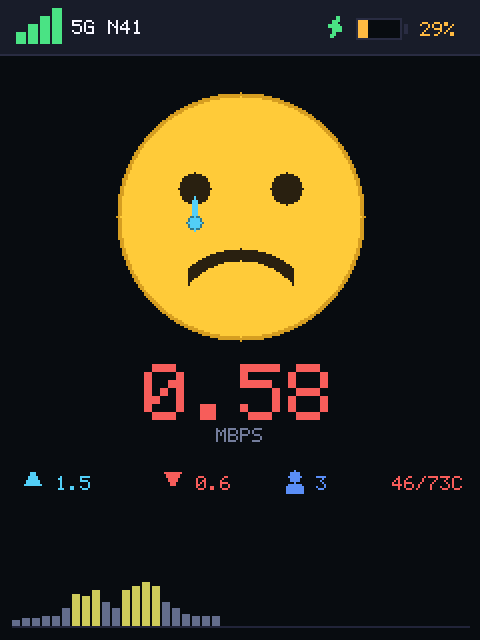
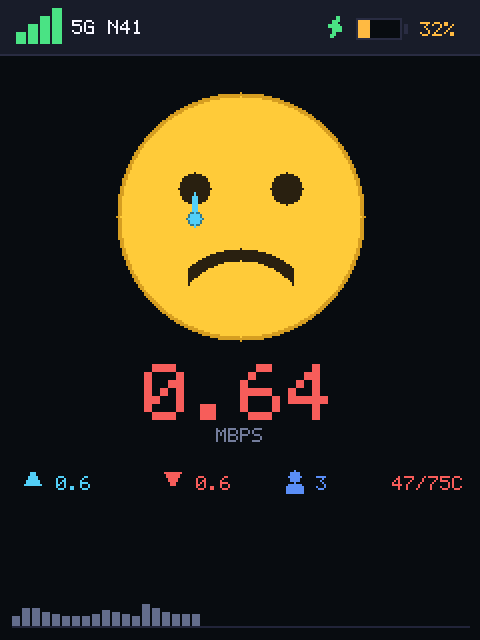
mifi-face-screen: add auto-restart keeper, fix the silently-broken emergency stop
Two tooling problems found while verifying v2:

  * screen-fix.bat (the black-screen emergency button) killed the face screen
    with the pattern [f]ace.py, which does NOT match face2.py: the '.' has to
    eat the '2', leaving nothing for the 'p'. So the button reported success
    while the process kept running. Changed to [f]ace, which matches both
    versions and still cannot match its own command line -- verified on the
    device (the shell survives and the target dies).

  * the one-shot start died with the adb session. face-keeper.bat now loops:
    connect -> push -> pkill (its own adb call, or the pattern matches the
    command line and the shell kills itself) -> run -> restart on exit. Device
    reboot or link drop both self-heal. face-control.bat option 1 launches it.

Also refreshed the live device screenshot and folded the full 9-repair
statistics into the report (8 intervals: 61/59/121/60/60/59/61/60 s, one
121s gap explained by a regular render landing on the stamp).

diff --git a/mifi-face-screen/optimization-report.html b/mifi-face-screen/optimization-report.html
@@ -167,20 +167,18 @@ v1 没有任何应对，只能等自己下一次刷新（1 秒后）才盖回去
 <tr><td>盖上 20 px 宽窄条后探测</td><td>发现覆盖（验证抽样不会漏）</td><td class="c good">True ✓</td></tr>
 <tr><td>重绘之后再探测</td><td>已修复</td><td class="c good">False ✓</td></tr>
 </table>
-<p>然后是实机长时间验证。设备上的 <code>/tmp/face_repair.log</code> 会记下每一次真实发生的覆盖与修复：</p>
+<p>然后是实机长时间验证。设备上的 <code>/tmp/face_repair.log</code> 会记下每一次真实发生的覆盖与修复。
+连续跑约 9 分钟，抓到 9 次：</p>
 <table>
-<tr><th class="c">第几次</th><th class="c">发生时刻</th><th class="c">距上次</th><th>说明</th></tr>
-<tr><td class="c mono">1</td><td class="c mono">21:33:59</td><td class="c mono">—</td><td>进程启动后第一次</td></tr>
-<tr><td class="c mono">2</td><td class="c mono">21:35:00</td><td class="c mono">61 s</td><td>原厂时钟的周期</td></tr>
-<tr><td class="c mono">3</td><td class="c mono">21:35:59</td><td class="c mono">59 s</td><td>原厂时钟的周期</td></tr>
-<tr><td class="c mono">4</td><td class="c mono">21:38:00</td><td class="c mono warn">121 s</td><td>21:37 那次被常规渲染顺手盖掉了，探测没轮上</td></tr>
-<tr><td class="c mono">5</td><td class="c mono">21:39:00</td><td class="c mono">60 s</td><td>原厂时钟的周期</td></tr>
-<tr><td class="c mono">6</td><td class="c mono">21:40:00</td><td class="c mono">60 s</td><td>原厂时钟的周期</td></tr>
+<tr><th>统计项</th><th>实测</th></tr>
+<tr><td>总修复次数</td><td class="mono">9 次 / 约 9 分钟</td></tr>
+<tr><td>相邻间隔（秒）</td><td class="mono">61, 59, <span class="warn">121</span>, 60, 60, 59, 61, 60</td></tr>
+<tr><td>间隔中位数</td><td class="mono good">60 秒</td></tr>
+<tr><td>错误日志 <code>/tmp/face_err.log</code></td><td class="mono good">全程为空</td></tr>
 </table>
-<p>那个 121 秒的间隔不是漏修 —— 是 21:37 那次时钟刚好落在<b>常规渲染</b>的那一瞬间，
+<p>那个 <b>121 秒</b>不是漏修 —— 是那一次时钟刚好落在<b>常规渲染</b>的那一瞬间，
 被渲染本身盖掉了，所以探测环节没机会记一笔。两条路都是好的：
-<b>要么常规渲染顺手盖掉，要么探测在 0.125 秒内盖掉</b>，不存在放任不管的情况。
-<code>/tmp/face_err.log</code> 全程为空。</p>
+<b>要么常规渲染顺手盖掉，要么探测在 0.125 秒内盖掉</b>，不存在放任不管的情况。</p>
 
 <p>再换个角度交叉验证：用<b>另一个独立进程</b>以 0.15 秒的间隔连读 95 秒 framebuffer，
 数"脸部区域出现纯黑"的采样点：</p>
@@ -220,10 +218,18 @@ v1 没有任何应对，只能等自己下一次刷新（1 秒后）才盖回去
 </div>
 <ul>
 <li><b>保活依赖电脑</b>：现在是电脑端挂着 adb 会话。电脑关机、休眠、关掉那个窗口，表情屏就停。
-  （设备端也有常驻办法 —— <code>mount -o remount,rw /</code> 后写 init 脚本 —— 但那要改系统分区，风险高，没做）</li>
+  已补了一个 <code>face-keeper.bat</code> —— 它会自动重连、自动重启，
+  设备重启或链路断了都能自己恢复。
+  （设备端也有常驻办法 —— <code>mount -o remount,rw /</code> 后写 init 脚本 ——
+  但那要改系统分区，风险高，没做）</li>
 <li><b>没做</b>：历史趋势落盘（重启后柱状图从零开始）、按客户端分别统计流量、把 SoC 温度写进日志做趋势</li>
-<li><b>顺带发现的</b>：设备负载 <code>load average</code> 常年 7 以上，但 CPU 空闲 78% ——
+<li><b>顺带发现的</b>：设备负载 <code>load average</code> 常年 7 以上，但 CPU 空闲 78 % ——
   说明卡的是<b>等 I/O</b>（调制解调器的 <code>RX_THREAD</code> 长期处于 D 状态），不是 CPU 不够</li>
+<li><b>顺手修掉的</b>：原来的 <code>screen-fix.bat</code>（黑屏急救）用的杀进程模式是
+  <code>[f]ace.py</code>，而它<b>匹配不上 <code>face2.py</code></b> ——
+  因为模式里的 <code>.</code> 得先吃掉那个 <code>2</code>，后面就没字符给 <code>p</code> 了。
+  也就是说那个急救按钮会<b>静默失效</b>：报告"已停止"但进程还活着。
+  已改成 <code>[f]ace</code>（两个版本都能杀，且仍然不会误杀自己）。</li>
 </ul>
 
 <div class="foot">face2.py · 763 行 · 单文件零依赖 · 已在真机验证</div>

diff --git a/mifi-face-screen/README.md b/mifi-face-screen/README.md
@@ -62,18 +62,24 @@ SoC 降频 →  温度标红告警
 
 1. 电脑和随身 WiFi 在同一个网段
 2. 双击 `face-control.bat`
-3. 选 `1` 启动
+3. 选 `1`（推荐）
 
-它会推 `face2.py` 到设备 `/mnt/data/` 并跑起来，同时弹一个**最小化的 adb 窗口**——
-**这个窗口别关**，它是保活的命根子（`adb shell` 的前台会话一断，设备上的进程就被回收）。
+选 `1` 会开一个 **`face-keeper.bat` 窗口**：它推 `face2.py` 到设备、跑起来，
+**并且会在设备重启或链路断开时自动重连、自动重启**。
+
+> ⚠ **那个窗口别关。** `adb shell` 的前台会话一断，设备上的进程就被回收 ——
+> 所以保活靠的是这个窗口本身。关了它就等于停了表情屏。
+
+选 `2` 是"一次性启动"，不会自动重启。
 
 | 菜单 | 作用 |
 |---|---|
-| `1` Start | 启动表情屏 |
-| `2` Stop | 停止，并把原厂时钟画面还原回去 |
-| `3` Status | 看进程、背光、电量、各热区温度、CPU 频率、修复次数 |
-| `4` Fix | 黑屏急救 |
-| `5` Exit | 退出 |
+| `1` Start（keeper） | 自动重连 + 自动重启，长期挂着用这个 |
+| `2` Start（one-shot） | 只启动一次，链路断了不会自愈 |
+| `3` Stop | 停止，并把原厂时钟画面还原回去 |
+| `4` Status | 看进程、背光、电量、各热区温度、CPU 频率、WiFi 客户端、修复次数 |
+| `5` Fix | 黑屏急救 |
+| `6` Exit | 退出 |
 
 ### 依赖
 
@@ -156,13 +162,20 @@ samples=548  overlay_samples=1  worst_black=1742
 
 - **`adb shell "cmd &"` 起的后台进程必死**，`setsid` / `nohup` 都救不回来。
   常驻只有两条路：PC 端挂住 adb 会话，或者 `mount -o remount,rw /` 后写 init 脚本。
-- **`pkill -f` 会杀掉自己**。清理和启动必须拆成两次 adb 调用，
-  并且用 `[f]ace2.py` 这种写法规避自匹配。
+- **`pkill -f` 会杀掉自己**。清理和启动必须拆成两次 adb 调用。
+- **⚠ 杀进程的模式要写成 `[f]ace`，不能写 `[f]ace.py`** ——
+  后者<b>匹配不上 `face2.py`</b>：模式里的 `.` 得先吃掉那个 `2`，后面就没字符给 `p` 了。
+  一开始的 `screen-fix.bat` 就踩了这个，急救按钮会**静默失效**
+  （报告"已停止"，但进程还活着）。`[f]ace` 两个版本都能杀，且仍然不会误杀自己。
 - **`fylog` 的 VUPDATE 记录，标记行和数据行不在同一行**。
   而且日志是边写边读的，最新那条通常只写了一半 ——
   要往回找最后一条**完整**的（判断依据：含 `wifinum` 字段）。
+- **`charge:` 会被 `bat charge:33122` 抢先命中**，得专门找 `charge:"`。
 - **BusyBox 没有 `head -c` / `timeout`**，用 `sed -n '1,60p'`。
 - **`cmd.exe` 在这台机器上从 Bash / PowerShell 都调不起来**（安全策略），改用 .NET Process API。
+- **别从网上下 platform-tools 到 Temp 里跑** —— Windows 应用控制策略会拦掉新下载的
+  未签名 exe，跑起来 exit code 127 且**没有任何输出**（连 `adb version` 都空）。
+- **`load average` 会骗人**：实测 load 7.4 但 CPU 空闲 78%，卡的是 D 状态 I/O。
 
 ---
 
@@ -188,7 +201,8 @@ samples=548  overlay_samples=1  worst_black=1742
 | 文件 | 说明 |
 |---|---|
 | `face2.py` | 表情屏本体，单文件零依赖，763 行 |
-| `face-control.bat` | Windows 控制面板 |
+| `face-keeper.bat` | 保活 + 自动重连 + 自动重启（推荐入口） |
+| `face-control.bat` | Windows 控制面板（启动 / 停止 / 状态 / 急救） |
 | `screen-fix.bat` | 黑屏急救（独立于控制面板） |
 | `optimization-report.html` | v1 → v2 的完整优化报告（问题定位 + 实测数据） |
 | `preview-*.png` | 各状态预览（`live-device` 是真机截屏） |
